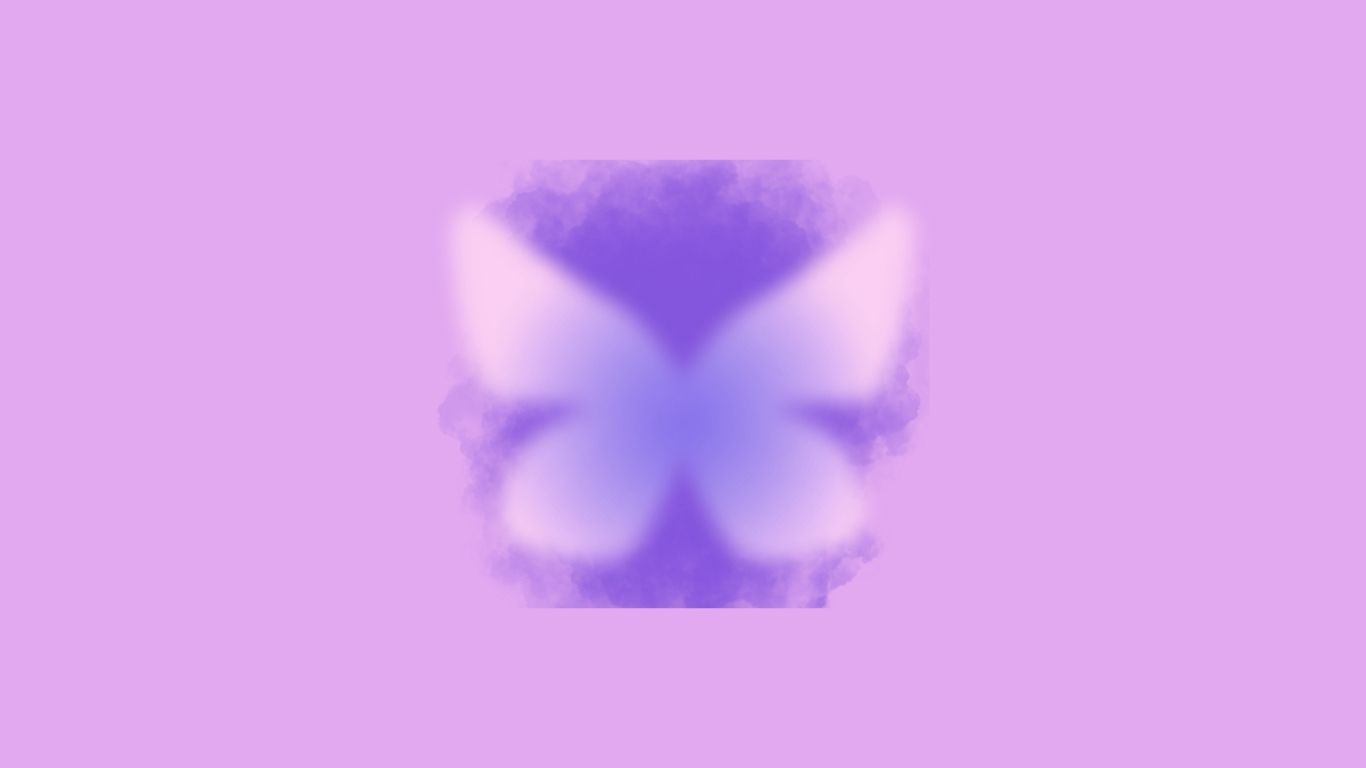
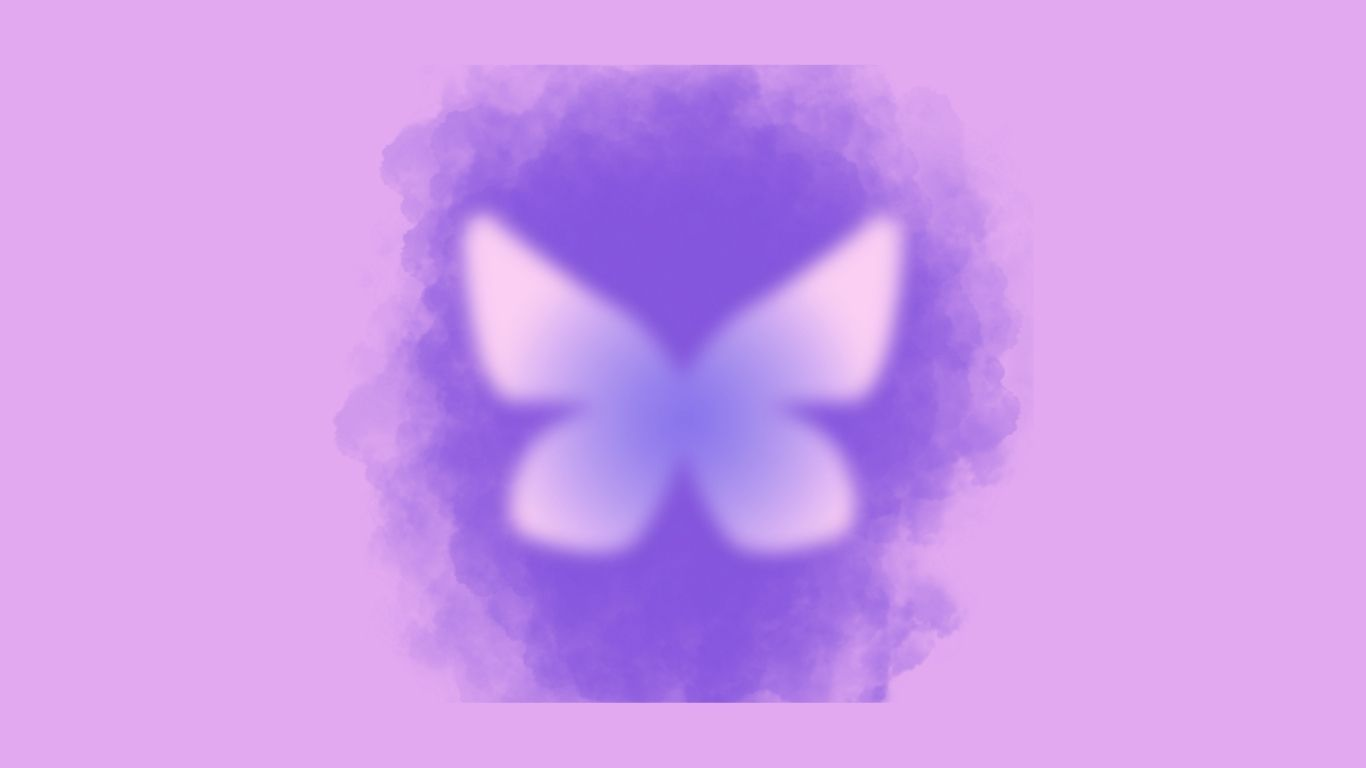
Add files via upload

Changed region(s): [[0.2767, 0.0625, 0.7687, 0.9375]]

diff --git a/index.html b/index.html
@@ -104,7 +104,7 @@
             color: #333;
             line-height: 1.5; /* Beautiful original comfortable spacing */
             font-weight: bold;
-            padding: 5px 2px;
+            padding: 14px 2px 2px 2px; /* Increased top padding to nudge desktop text down slightly */
             word-break: break-word;
             letter-spacing: 0.3px;
         }
@@ -265,129 +265,90 @@
         background-image: url('images/bg 2.jpg'); /* Custom mobile background */
     }
 
+    /* MUCH smaller player wrapper */
     #interactive-wrapper {
-        width: 210px;
-        height: 270px;
+        width: 165px;
+        height: 215px;
     }
 
-    /* 2. Compact Cassette Player Deck */
+    /* 2. Noticeably smaller Cassette Player Deck */
     #player-deck {
-        width: 210px;
-        height: 275px;
-        padding: 10px;
-        border-width: 3px;
-        border-radius: 15px;
+        width: 165px;
+        height: 220px;
+        padding: 8px;
+        border-width: 2.5px;
+        border-radius: 12px;
     }
 
     #cassette-window {
-        height: 155px;
-        border-radius: 8px;
+        height: 120px;
+        border-radius: 6px;
     }
 
     /* 3. Scaled-down Polaroid Frame & Text */
     .polaroid-photo-frame {
-        width: 105px;
-        height: 105px;
-        box-shadow: 0 6px 15px rgba(0, 0, 0, 0.3);
+        width: 80px;
+        height: 80px;
+        box-shadow: 0 4px 10px rgba(0, 0, 0, 0.3);
     }
 
     #polaroid-message {
-        font-size: 8px;
-        padding: 3px 0 0 0;
-        line-height: 1.2;
-        letter-spacing: 0.1px;
+        font-size: 6.5px;
+        padding: 8px 0 0 0; /* Nudged down slightly for mobile */
+        line-height: 1.1;
+        letter-spacing: 0.05px;
     }
 
-    /* 4. Compact Cassette Tape (Backup View) */
+    /* 4. Compact Cassette Tape */
     #css-cassette {
-        width: 115px;
-        height: 70px;
-        padding: 4px;
+        width: 90px;
+        height: 55px;
+        padding: 3px;
     }
 
     #cassette-title {
-        font-size: 8px;
+        font-size: 6.5px;
     }
 
     .reels-container {
-        transform: scale(0.65);
+        transform: scale(0.5);
     }
 
-    /* 5. Compact Bottom Status Bar & Button */
+    /* 5. Smaller Bottom Status Bar & Button */
     #display-window {
-        height: 26px;
-        line-height: 26px;
-        font-size: 9px;
+        height: 20px;
+        line-height: 20px;
+        font-size: 7.5px;
     }
 
     .control-btn {
-        padding: 4px 12px;
-        font-size: 9px;
+        padding: 2px 8px;
+        font-size: 7.5px;
     }
 
-    /* 6. EXPANDED ORBIT RADIUS (Diameter: 350px, Radius: 175px)
-       Pushes the top and bottom hearts further out so they do not clip! */
+    /* 6. ADJUSTED ORBIT (Diameter: 295px, Radius: 147.5px) */
     #orbit-container {
-        width: 350px; 
-        height: 350px;
+        width: 295px; 
+        height: 295px;
     }
 
-    /* Mathematically positioned so every heart orbits completely outside the deck */
-    .h1 { transform: translate(-50%, -50%) translate(0px, -175px); } /* Pushed up */
-    .h2 { transform: translate(-50%, -50%) translate(137px, -109px); }
-    .h3 { transform: translate(-50%, -50%) translate(170px, 39px); }
-    .h4 { transform: translate(-50%, -50%) translate(76px, 158px); }
-    .h5 { transform: translate(-50%, -50%) translate(-76px, 158px); }
-    .h6 { transform: translate(-50%, -50%) translate(-170px, 39px); }
-    .h7 { transform: translate(-50%, -50%) translate(-137px, -109px); }
+    /* Recalculated coordinates for exactly 147.5px radius */
+    .h1 { transform: translate(-50%, -50%) translate(0px, -147.5px); }
+    .h2 { transform: translate(-50%, -50%) translate(115px, -92px); }
+    .h3 { transform: translate(-50%, -50%) translate(143px, 33px); }
+    .h4 { transform: translate(-50%, -50%) translate(65px, 133px); }
+    .h5 { transform: translate(-50%, -50%) translate(-65px, 133px); }
+    .h6 { transform: translate(-50%, -50%) translate(-143px, 33px); }
+    .h7 { transform: translate(-50%, -50%) translate(-115px, -92px); }
 
-    /* Cute, compact hearts for mobile */
+    /* Cute, petite hearts for mobile */
     .heart {
-        font-size: 28px;
+        font-size: 22px;
     }
 
     .heart-num {
-        font-size: 8px;
+        font-size: 6.5px;
         top: 38%;
-    }
-}
-
-/* Fallback for ultra-narrow viewport widths (e.g., under 330px) */
-@media (max-width: 330px) {
-    #scene-container {
-        background-image: url('images/bg 2.jpg');
-    }
-
-    #interactive-wrapper, #player-deck {
-        width: 190px;
-        height: 250px;
-    }
-
-    #cassette-window {
-        height: 135px;
-    }
-
-    .polaroid-photo-frame {
-        width: 90px;
-        height: 90px;
-    }
-
-    /* Radius: 155px for ultra-narrow screens */
-    #orbit-container {
-        width: 310px; 
-        height: 310px;
-    }
-
-    .h1 { transform: translate(-50%, -50%) translate(0px, -155px); }
-    .h2 { transform: translate(-50%, -50%) translate(121px, -96px); }
-    .h3 { transform: translate(-50%, -50%) translate(151px, 34px); }
-    .h4 { transform: translate(-50%, -50%) translate(67px, 140px); }
-    .h5 { transform: translate(-50%, -50%) translate(-67px, 140px); }
-    .h6 { transform: translate(-50%, -50%) translate(-151px, 34px); }
-    .h7 { transform: translate(-50%, -50%) translate(-121px, -96px); }
-
-    .heart {
-        font-size: 24px;
     }
 }
     </style>

diff --git a/script.js b/script.js
@@ -4,37 +4,37 @@ const playlist = [
     {
         audio: 'audio/song 1 - kesariya.mp3',
         image: 'images/pic 1.jpg',
-        message: "This is my favorite recording of you. Your voice is so pure and beautiful here! ❤️"
+        message: "I love your voice sm, eto effortlessly audience er samne gaash ki kore 😍"
     },
     {
         audio: 'audio/song 2 - qaafirana.mp3',
         image: 'images/pic 2.jpg',
-        message: "The way you hit these notes completely took my breath away. Never doubt yourself. ✨"
+        message: "Aha, so many memories✨ Eta jokhoni shuni, palpitation shuru uffff etooo shundor ❤"
     },
     {
         audio: 'audio/song 3 - tum ho toh.mp3',
         image: 'images/pic 3.jpg',
-        message: "I love this memory so much, but I love your voice in the background even more. 😘"
+        message: "My most mostttt favv, amader shei theme song. Tor voice ae magic healing achhe reee 🦋 Mon kharap holei shuni 💞"
     },
     {
         audio: 'audio/song 4 - number one girl.mp3',
         image: 'images/pic 4.jpg',
-        message: "A quick reminder that you sing better than anyone I know. Truly. 🦋"
+        message: "A quick reminder je you are always gonna be my one and only princess & I'll always be there for you🤗"
     },
     {
         audio: 'audio/song 5 - taake olpo kachhe dakchhi.mp3',
         image: 'images/pic 5.jpg',
-        message: "This song makes me feel so close to you. Your voice is my favorite sound. 🌸"
+        message: "Olpo keno? Enchant toh koreichhish, tene chepe dhor na 😜 Mone achhe brishtir kotha? 💖"
     },
     {
         audio: 'audio/song 6 - ei bhalo ei kharap.mp3',
-        image: 'images/pic 6.jpg',
-        message: "I could listen to you sing this on repeat forever and never get tired of it. ❤️"
+        image: 'images/pic 6.jpg', 
+        message: "Oho I could listen to this on repeat whole day & not get tired 🥰 I love ur voice so much 💗"
     },
     {
         audio: 'audio/song 7 - baundule ghuri.mp3',
         image: 'images/pic 7.jpg',
-        message: "Your voice is a gift, and I am so incredibly lucky to be the one you sing to. 🥰"
+        message: "Your voice is a gem Anu 💎💝 Kokkhono kharap bhabbi na or else ur biggest fan be bhery sad 🍎"
     }
 ];
 